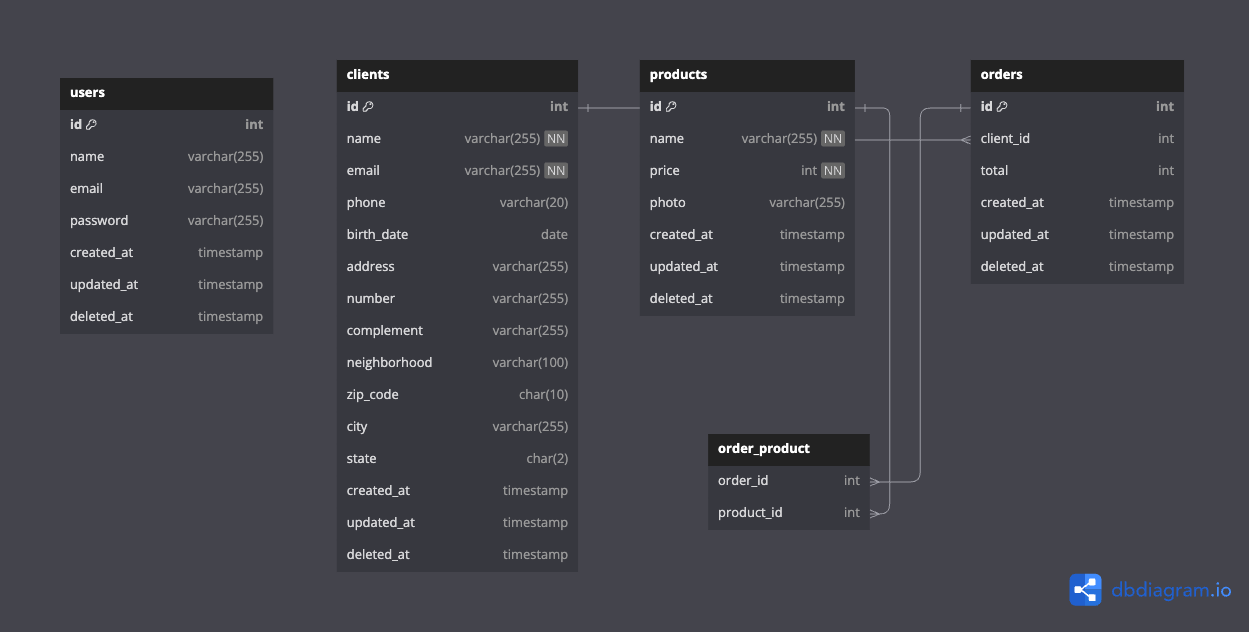
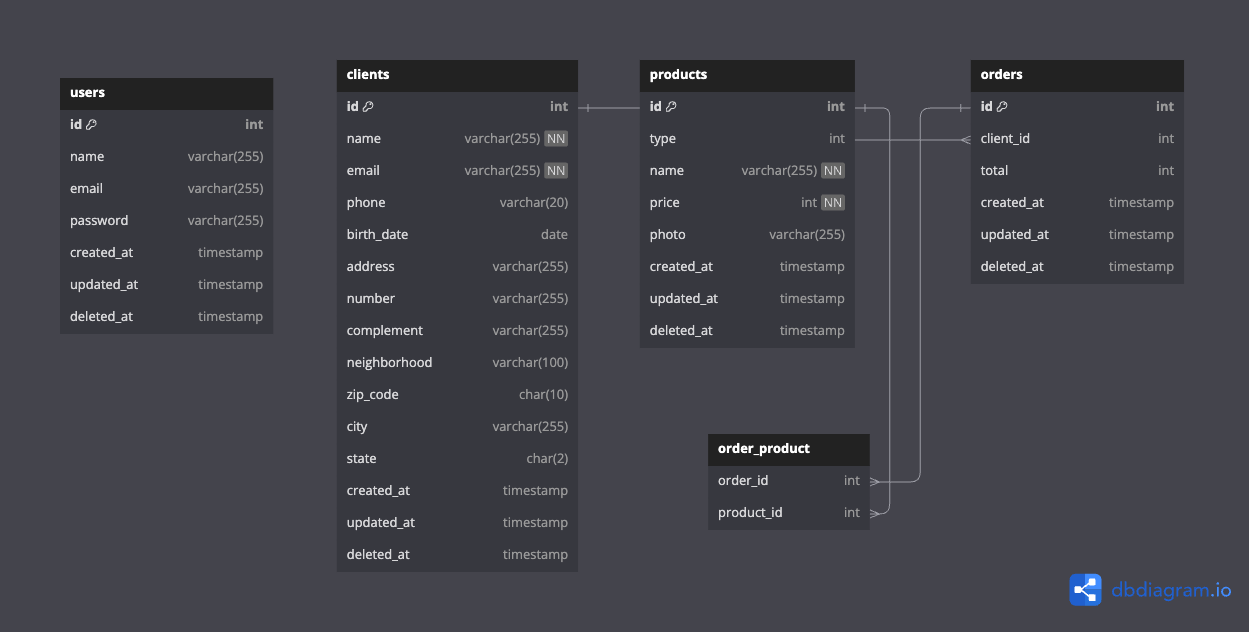
feat: Add ProductTypeEnum for product types, update factories and migrations, and refine client listing tests with filtering and pagination

diff --git a/tests/Feature/Client/ListTest.php b/tests/Feature/Client/ListTest.php
@@ -1,0 +1,52 @@
+<?php
+
+namespace Tests\Unit;
+
+use App\Models\{Client, User};
+
+use function Pest\Laravel\actingAs;
+
+beforeEach(function () {
+    actingAs(User::factory()->create());
+});
+
+it('can list all clients', function () {
+    Client::factory()->count(3)->create();
+
+    $response = $this->getJson(route('clients.index'));
+
+    $response->assertStatus(200);
+    $response->assertJsonCount(3, 'data');
+});
+
+it('can filter clients by name', function () {
+    Client::factory()->create(['name' => 'Alice']);
+    Client::factory()->create(['name' => 'Bob']);
+
+    $response = $this->getJson('/api/clients?name=Alice');
+
+    $response->assertStatus(200);
+    $response->assertJsonCount(1, 'data');
+    $response->assertJsonFragment(['name' => 'Alice']);
+});
+
+it('can paginate clients', function () {
+    Client::factory()->count(20)->create();
+
+    $response = $this->getJson('/api/clients?page=1&per_page=10');
+
+    $response->assertStatus(200);
+    $response->assertJsonCount(10, 'data');
+    $this->assertArrayHasKey('links', $response->json());
+});
+
+it('can sort clients by name', function () {
+    Client::factory()->create(['name' => 'Alice']);
+    Client::factory()->create(['name' => 'Bob']);
+    Client::factory()->create(['name' => 'Charlie']);
+
+    $response = $this->getJson('/api/clients?sort=name');
+
+    $response->assertStatus(200);
+    $this->assertEquals('Alice', $response->json()['data'][0]['name']);
+});

diff --git a/database/factories/UserFactory.php b/database/factories/UserFactory.php
@@ -11,30 +11,19 @@ use Illuminate\Support\Str;
  */
 class UserFactory extends Factory
 {
-    /**
-     * The current password being used by the factory.
-     */
     protected static ?string $password;
 
-    /**
-     * Define the model's default state.
-     *
-     * @return array<string, mixed>
-     */
     public function definition(): array
     {
         return [
-            'name' => fake()->name(),
-            'email' => fake()->unique()->safeEmail(),
+            'name'              => fake()->name(),
+            'email'             => fake()->unique()->safeEmail(),
             'email_verified_at' => now(),
-            'password' => static::$password ??= Hash::make('password'),
-            'remember_token' => Str::random(10),
+            'password'          => static::$password ??= Hash::make('password'),
+            'remember_token'    => Str::random(10),
         ];
     }
 
-    /**
-     * Indicate that the model's email address should be unverified.
-     */
     public function unverified(): static
     {
         return $this->state(fn (array $attributes) => [

diff --git a/database/factories/ClientFactory.php b/database/factories/ClientFactory.php
@@ -9,15 +9,20 @@ use Illuminate\Database\Eloquent\Factories\Factory;
  */
 class ClientFactory extends Factory
 {
-    /**
-     * Define the model's default state.
-     *
-     * @return array<string, mixed>
-     */
     public function definition(): array
     {
         return [
-            //
+            'name'         => $this->faker->name(),
+            'email'        => $this->faker->unique()->safeEmail(),
+            'phone'        => $this->faker->phoneNumber(),
+            'address'      => $this->faker->streetAddress(),
+            'number'       => $this->faker->numberBetween(1, 100),
+            'complement'   => $this->faker->secondaryAddress(),
+            'neighborhood' => $this->faker->citySuffix(),
+            'city'         => $this->faker->city(),
+            'state'        => $this->faker->stateAbbr(),
+            'birth_date'   => $this->faker->date(),
+            'zip_code'     => $this->faker->postcode(),
         ];
     }
 }

diff --git a/app/Enums/ProductTypeEnum.php b/app/Enums/ProductTypeEnum.php
@@ -1,0 +1,34 @@
+<?php
+
+namespace App\Enums;
+
+enum ProductTypeEnum: int
+{
+    case salty = 1;
+    case sweet = 2;
+    case drink = 3;
+
+    public static function getTypeName(int $type): string
+    {
+        return match ($type) {
+            self::salty->value => 'Salgados',
+            self::sweet->value => 'Doces',
+            self::drink->value => 'Bebidas',
+            default            => '',
+        };
+    }
+    public static function names(): array
+    {
+        return array_column(self::cases(), 'name');
+    }
+
+    public static function values(): array
+    {
+        return array_column(self::cases(), 'value');
+    }
+
+    public static function array(): array
+    {
+        return array_combine(self::values(), values: self::names());
+    }
+}

diff --git a/database/factories/ProductFactory.php b/database/factories/ProductFactory.php
@@ -2,6 +2,7 @@
 
 namespace Database\Factories;
 
+use App\Enums\ProductTypeEnum;
 use Illuminate\Database\Eloquent\Factories\Factory;
 
 /**
@@ -9,15 +10,13 @@ use Illuminate\Database\Eloquent\Factories\Factory;
  */
 class ProductFactory extends Factory
 {
-    /**
-     * Define the model's default state.
-     *
-     * @return array<string, mixed>
-     */
     public function definition(): array
     {
         return [
-            //
+            'type'  => $this->faker->randomElement(ProductTypeEnum::cases()),
+            'name'  => $this->faker->name(),
+            'price' => $this->faker->numberBetween(100, 1000),
+            'photo' => $this->faker->imageUrl(),
         ];
     }
 }

diff --git a/database/seeders/DatabaseSeeder.php b/database/seeders/DatabaseSeeder.php
@@ -2,8 +2,9 @@
 
 namespace Database\Seeders;
 
-use App\Models\User;
 // use Illuminate\Database\Console\Seeds\WithoutModelEvents;
+use App\Models\{Product};
+use App\Models\{User};
 use Illuminate\Database\Seeder;
 
 class DatabaseSeeder extends Seeder
@@ -16,8 +17,12 @@ class DatabaseSeeder extends Seeder
         // User::factory(10)->create();
 
         User::factory()->create([
-            'name' => 'Test User',
+            'name'  => 'Test User',
             'email' => 'test@example.com',
         ]);
+
+        $products = Product::factory(10)->create();
+
+
     }
 }

diff --git a/database/factories/OrderFactory.php b/database/factories/OrderFactory.php
@@ -2,6 +2,7 @@
 
 namespace Database\Factories;
 
+use App\Models\Client;
 use Illuminate\Database\Eloquent\Factories\Factory;
 
 /**
@@ -9,15 +10,11 @@ use Illuminate\Database\Eloquent\Factories\Factory;
  */
 class OrderFactory extends Factory
 {
-    /**
-     * Define the model's default state.
-     *
-     * @return array<string, mixed>
-     */
     public function definition(): array
     {
         return [
-            //
+            'client_id' => Client::factory(),
+            'total'     => $this->faker->numberBetween(100, 1000),
         ];
     }
 }

diff --git a/app/Models/Product.php b/app/Models/Product.php
@@ -2,15 +2,19 @@
 
 namespace App\Models;
 
+use App\Enums\ProductTypeEnum;
 use Illuminate\Database\Eloquent\{Model, SoftDeletes};
 use Illuminate\Database\Eloquent\Factories\HasFactory;
 use Illuminate\Database\Eloquent\Relations\BelongsToMany;
 
 class Product extends Model
 {
-    /** @use HasFactory<\Database\Factories\ProductFactory> */
     use HasFactory;
     use SoftDeletes;
+
+    protected $casts = [
+        'type' => ProductTypeEnum::class,
+    ];
 
     public function orders(): BelongsToMany
     {

diff --git a/database/migrations/2024_10_26_185722_create_products_table.php b/database/migrations/2024_10_26_185722_create_products_table.php
@@ -9,6 +9,7 @@ return new class () extends Migration {
     {
         Schema::create('products', function (Blueprint $table) {
             $table->id();
+            $table->integer('type');
             $table->string('name');
             $table->integer('price');
             $table->string('photo');
